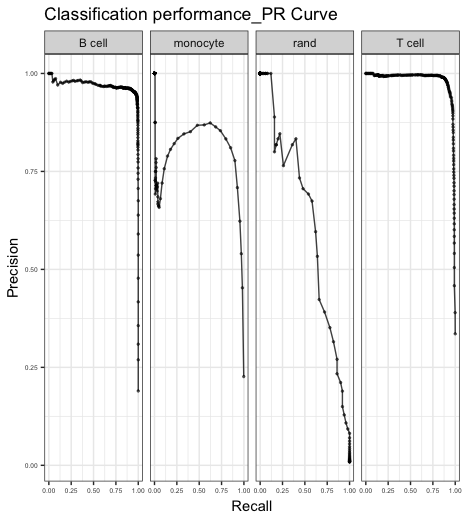
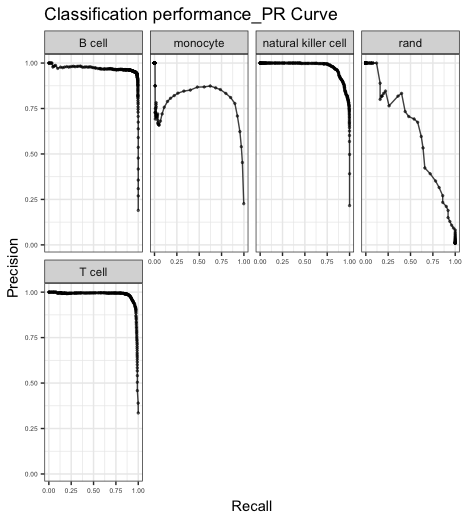
change NK cells to natural killer cells in assessment

diff --git a/README.md b/README.md
@@ -413,6 +413,9 @@ plot_umap(umPrep_HS)
 
 #### Assess classifier
 ```R
+stQuery$description <- as.character(stQuery$description)
+stQuery[which(stQuery$description == "NK cell"), "description"] = "natural killer cell"
+
 newSampTab_pbmc<-makeSampleTable(crHS, stQuery, nqRand, "sample_name")
 tm_pbmc_assessment <- assessmentReport_comm(crHS, newSampTab_pbmc, classLevels='description',dLevelSID='sample_name')
 plot_PRs(tm_pbmc_assessment)
